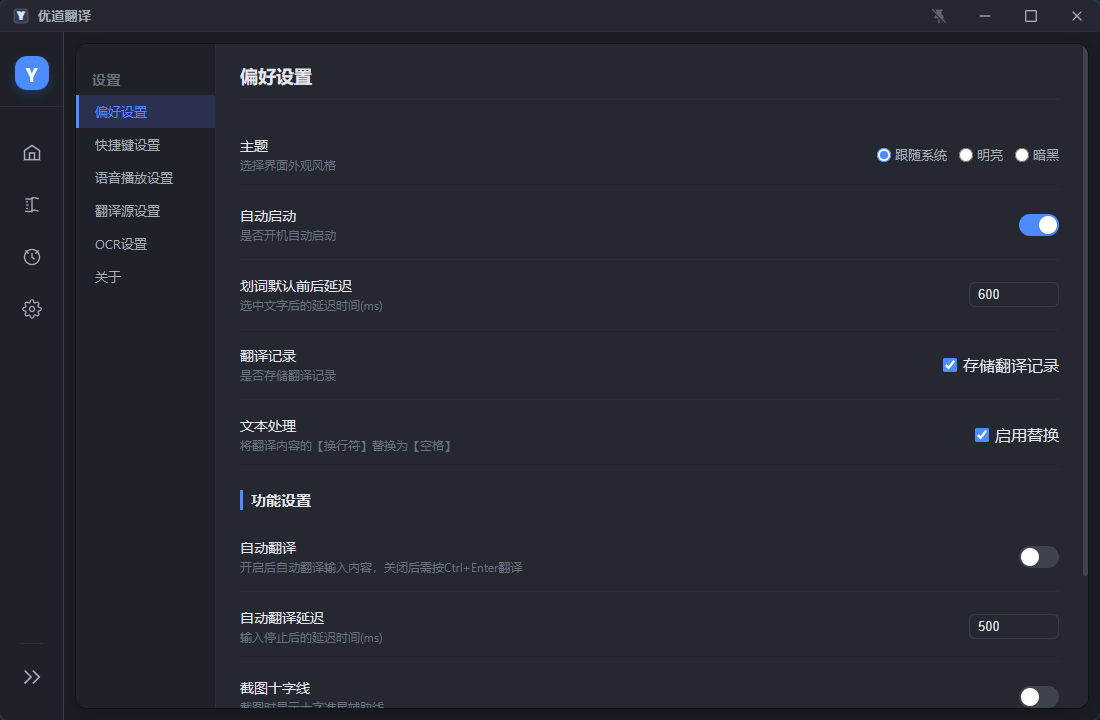
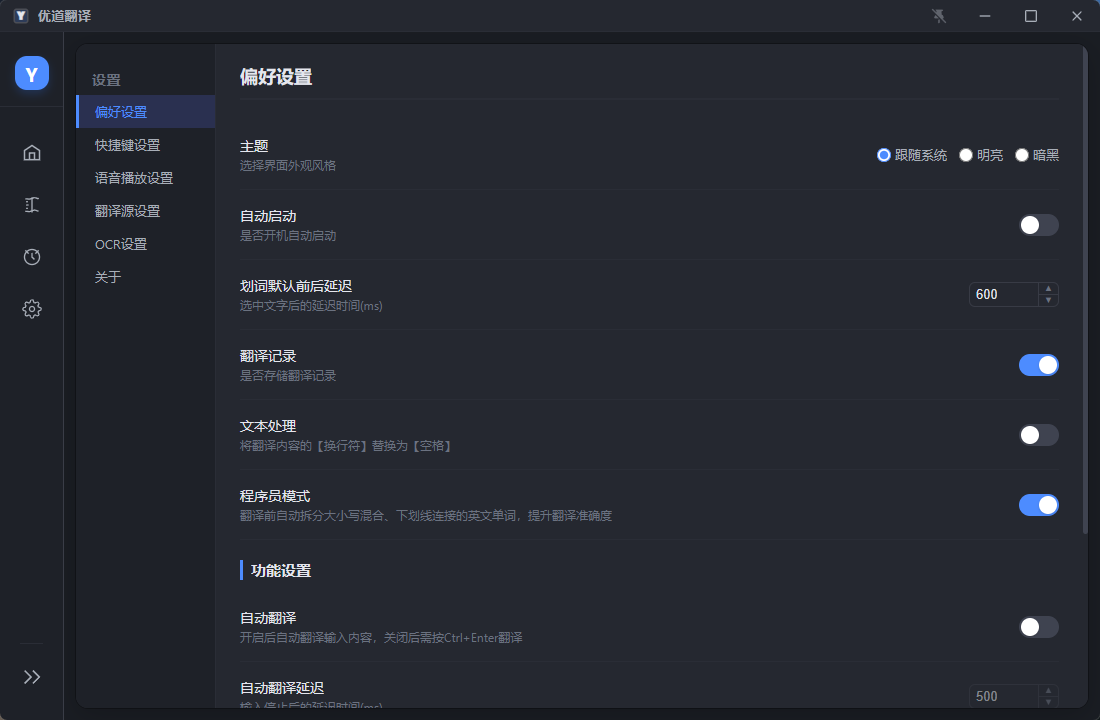
docs: 更新偏好设置页截图，新增关于页截图

diff --git a/README.md b/README.md
@@ -26,9 +26,9 @@
 | --- | --- | --- | --- |
 | ![翻译页](img/翻译页.png) | ![词典页](img/词典页.png) | ![翻译记录页](img/翻译记录页.png) | ![翻译源设置页](img/翻译源设置页.png) |
 
-| OCR设置页 | 语音播放设置页 | 偏好设置页 |
-| --- | --- | --- |
-| ![OCR设置页](img/OCR设置页.png) | ![语音播放设置页](img/语音播放设置页.png) | ![偏好设置页](img/偏好设置页.png) |
+| OCR设置页 | 语音播放设置页 | 偏好设置页 | 关于页 |
+| --- | --- | --- | --- |
+| ![OCR设置页](img/OCR设置页.png) | ![语音播放设置页](img/语音播放设置页.png) | ![偏好设置页](img/偏好设置页.png) | ![关于页](img/关于页.png) |
 
 ## ⬇️ 下载
 